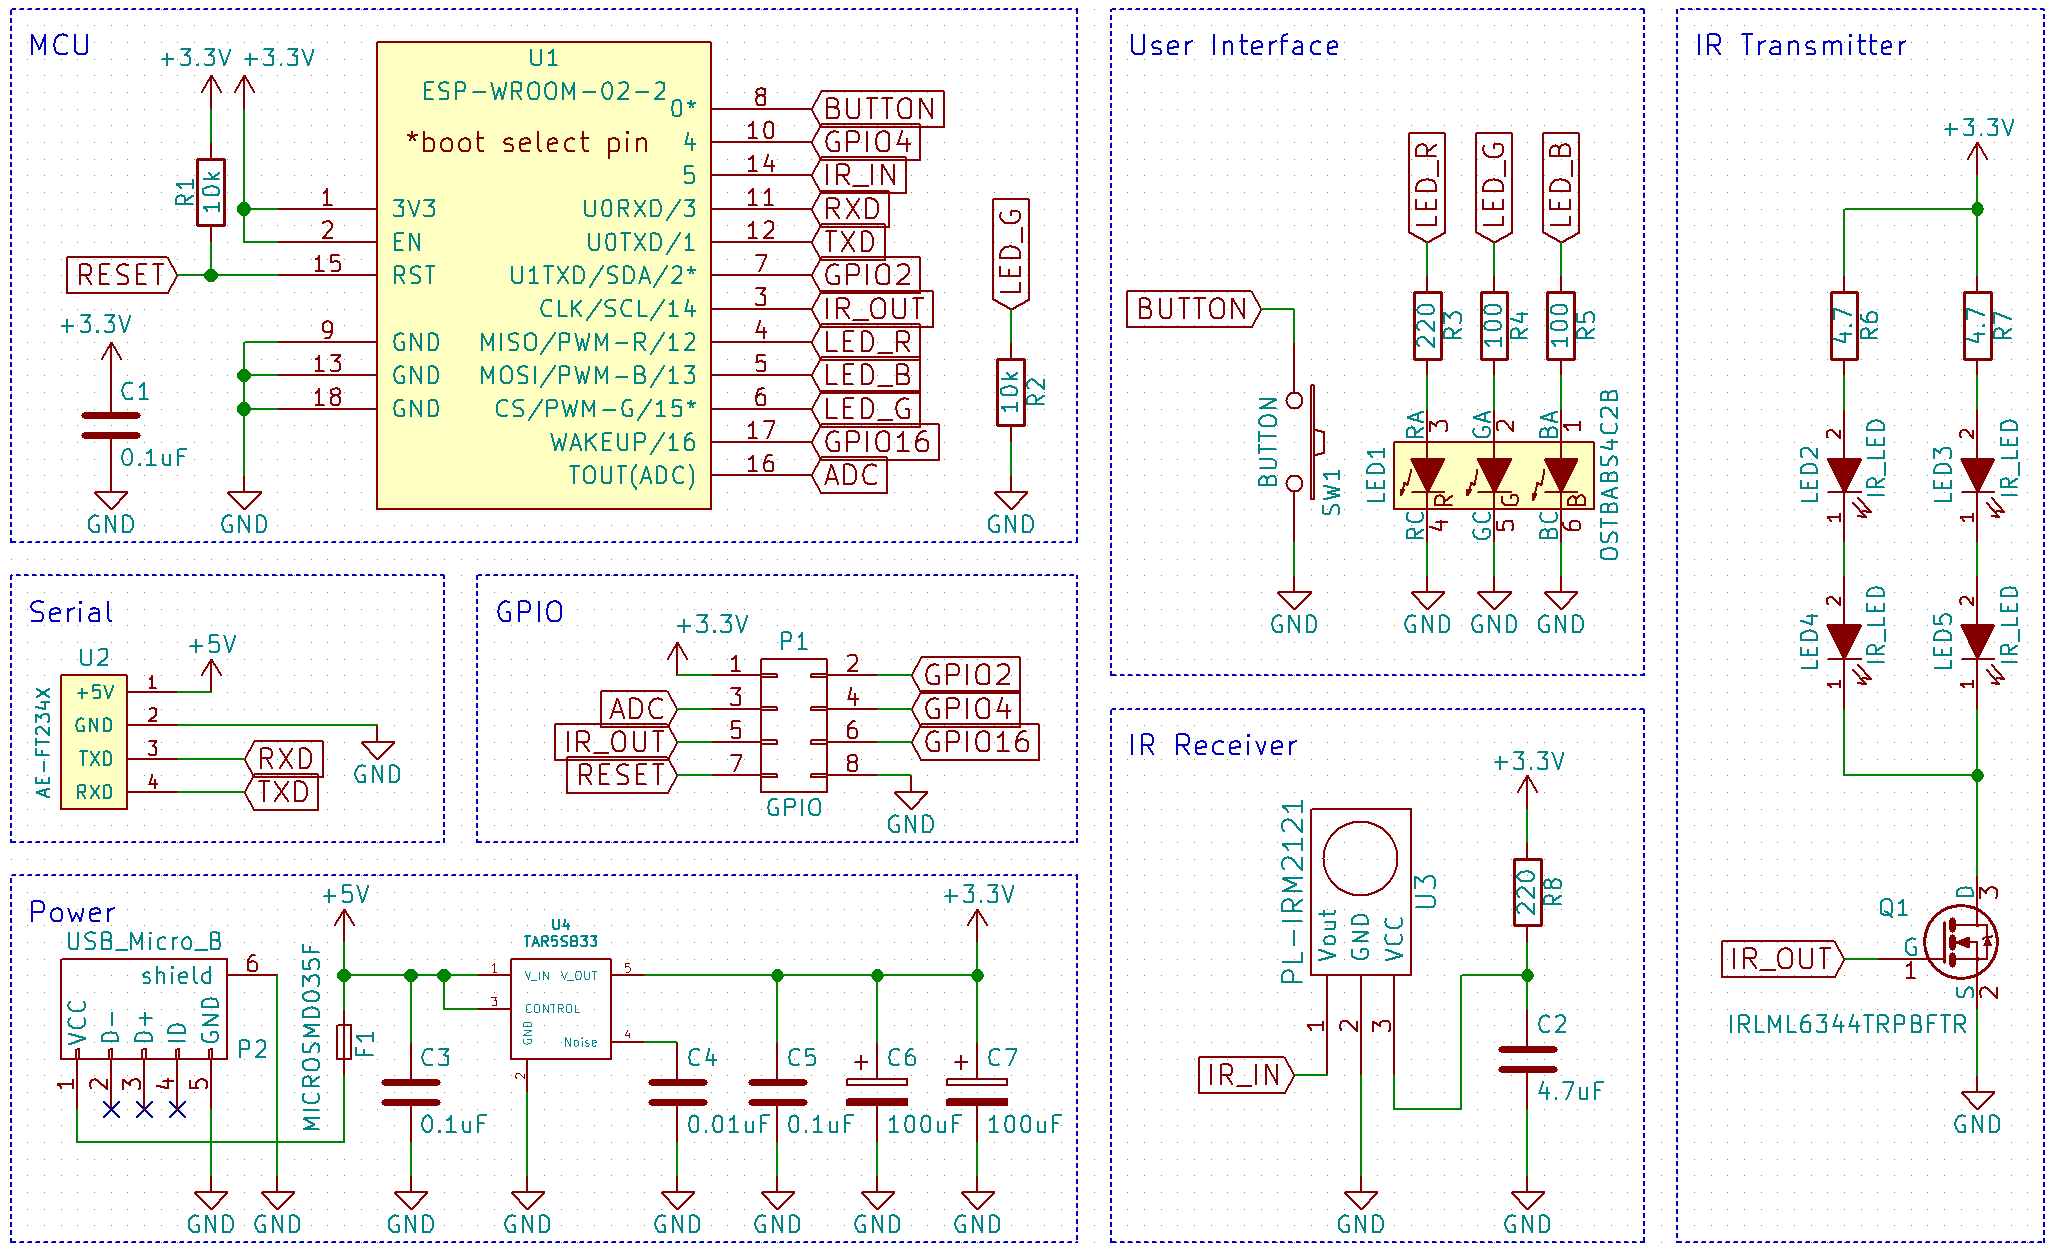
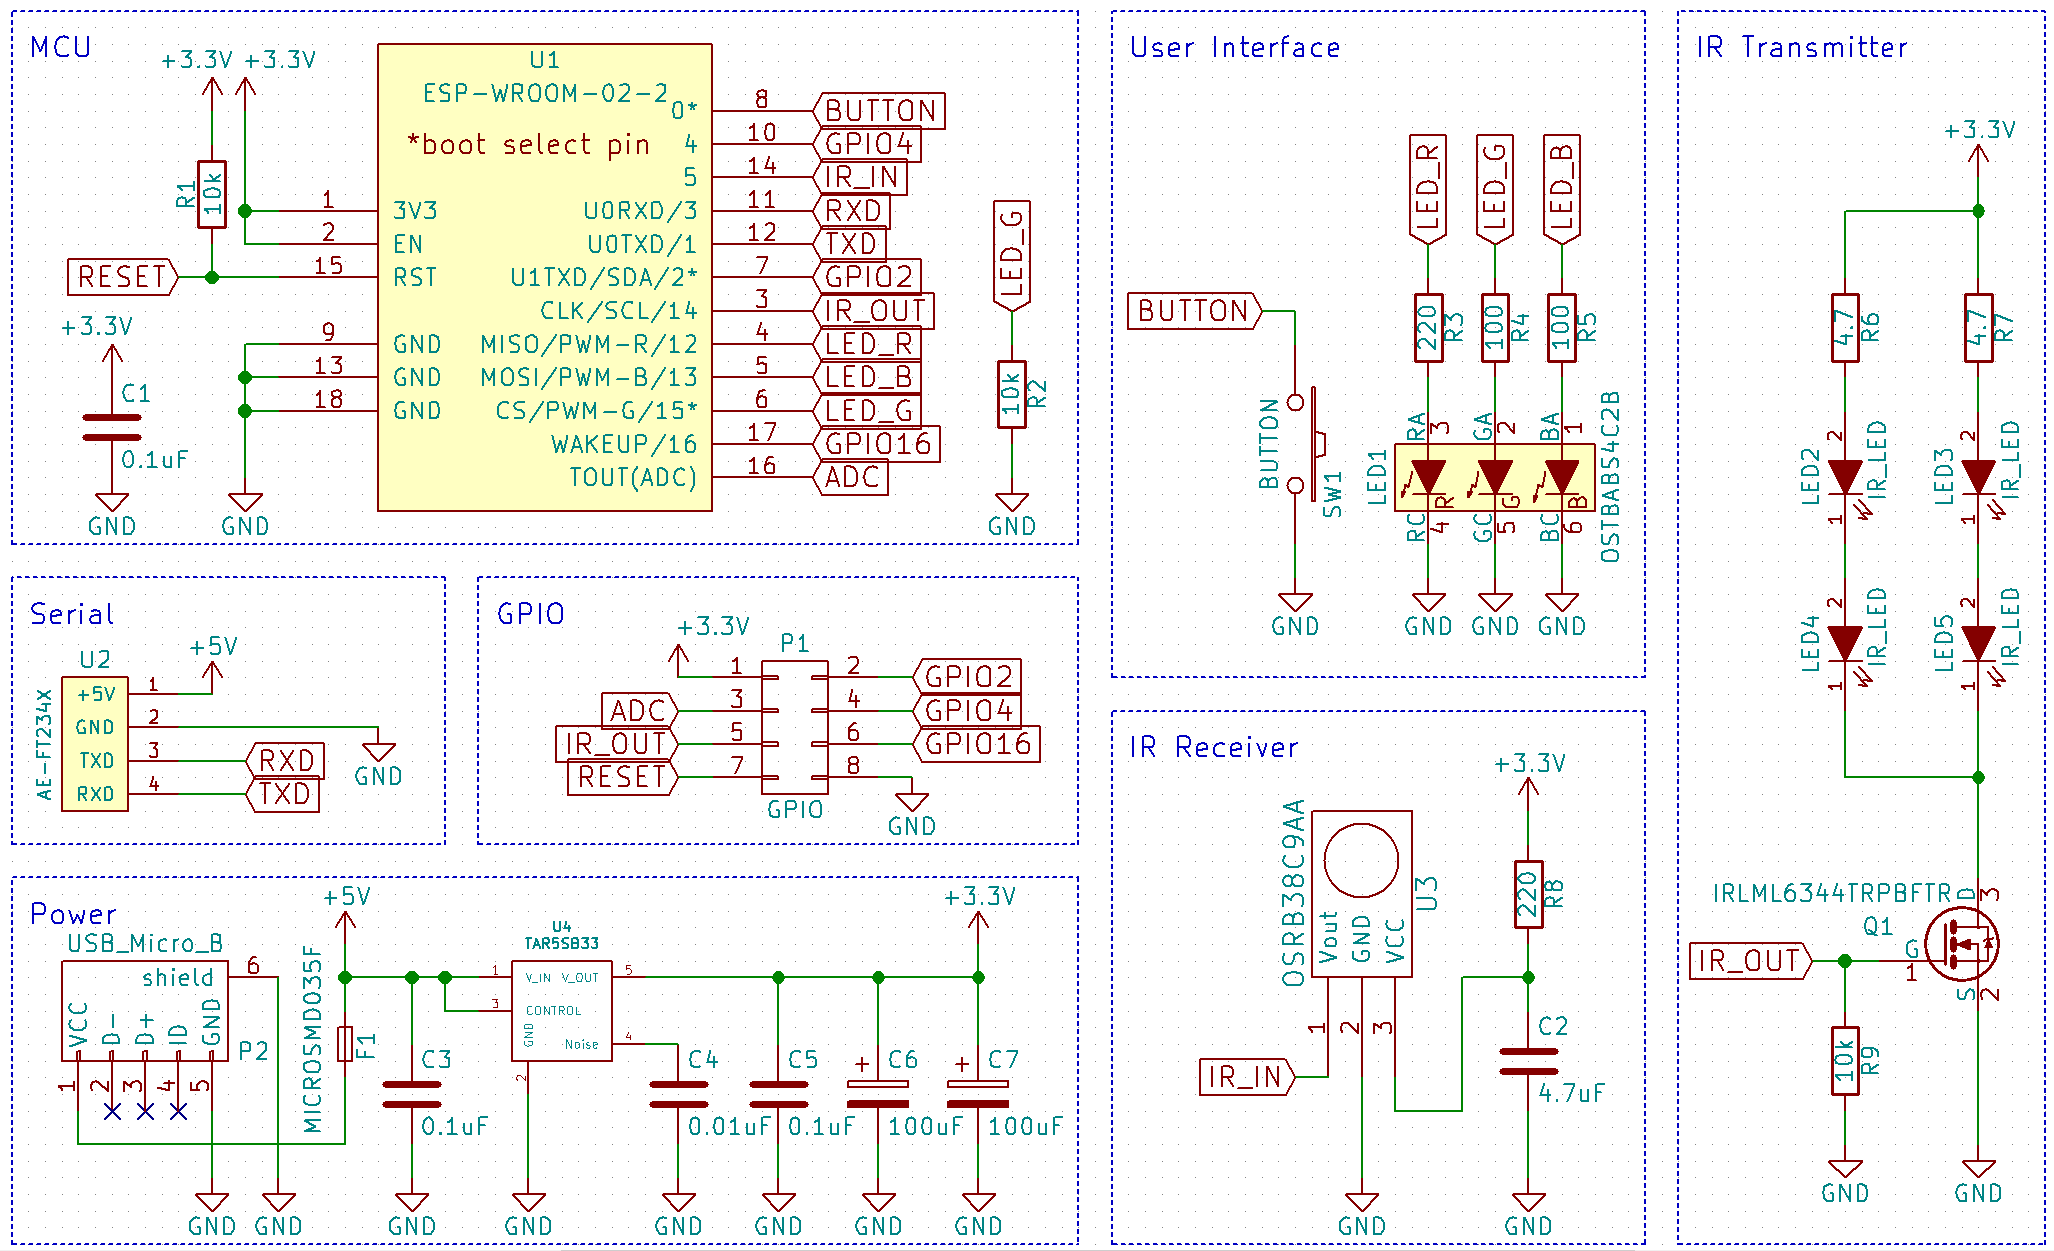
回路図とREADME.mdの更新
FETにプルダウン抵抗
部品表の更新

diff --git a/README.md b/README.md
@@ -97,22 +97,23 @@ Please Add the Libraries below to your Arduino IDE
 |Components|Details|Quantity|
 |:-------------|:-------|:--------|
 | ESP8266 WiFi Module | ESP-WROOM-02 | 1 |
-| IR receiver | PL-IRM0101-3 or equivalents | 1 |
+| IR receiver | PL-IRM1261 or equivalents (3.3V) | 1 |
 | IR LED | anything good | 2 or 4 |
-| Nch FET | BS170 or equivalents | 1 |
-| IR LED Current Regulation Resistor | 4.7 ohms, 1W | 1~2 |
-| Pull-up/down Resistor | 10k ohms | 5 |
+| Nch FET | IRLML6344 or equivalents | 1 |
+| IR LED Current Regulation Resistor | 4.7 ohms, 1W | 1 or 2 |
+| Pull-up/down Resistor | 10k ohms | 2 |
 | Indicator LED | RGB full-color LED | 1 |
+| Current Regulation Resistor for LED | 100~220 ohms | 3 |
 | Voltage Regulator | output: 3.3V 150mA or more | 1 |
 | Bypass Capacitor | 0.1uF | 2~3 |
 | Power Stabilization Capacitor | 470uF~1000uF | 1 |
+| User Button | tact switch | 1 |
 
 ### Optional Device Components
 
 |Components|Details|Quantity|
 |:-------------|:-------|:--------|
 | Reset Switch | tact switch | 1 |
-| Program Upload Switch | tact switch | 1 |
 
 ### Requires
 
